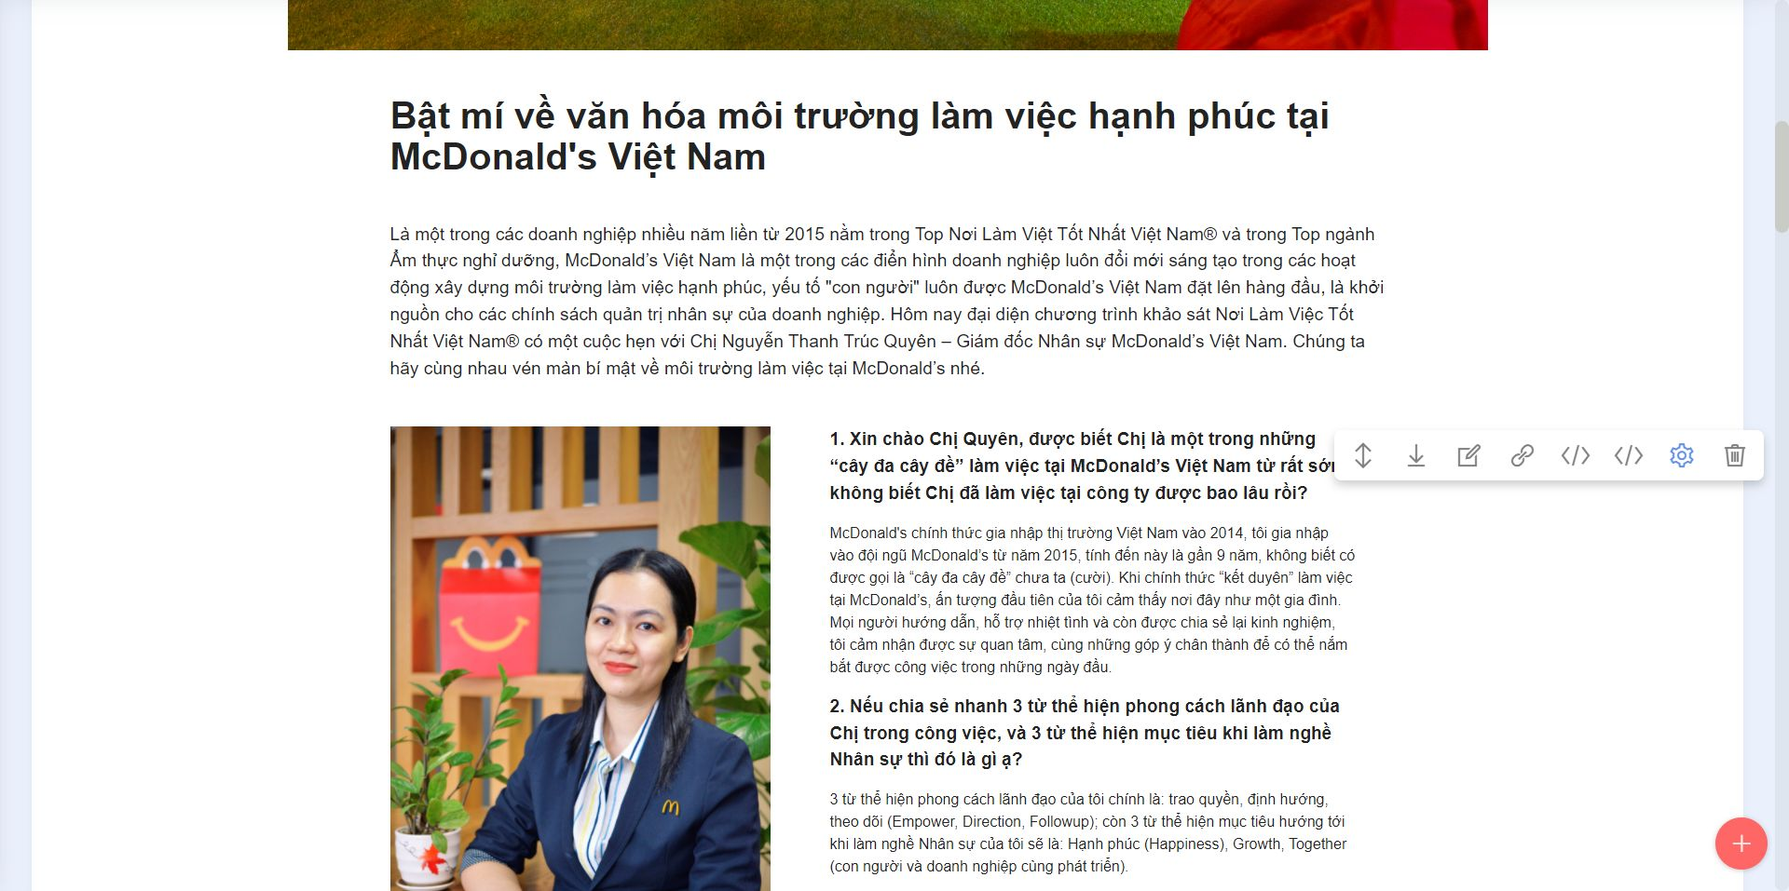
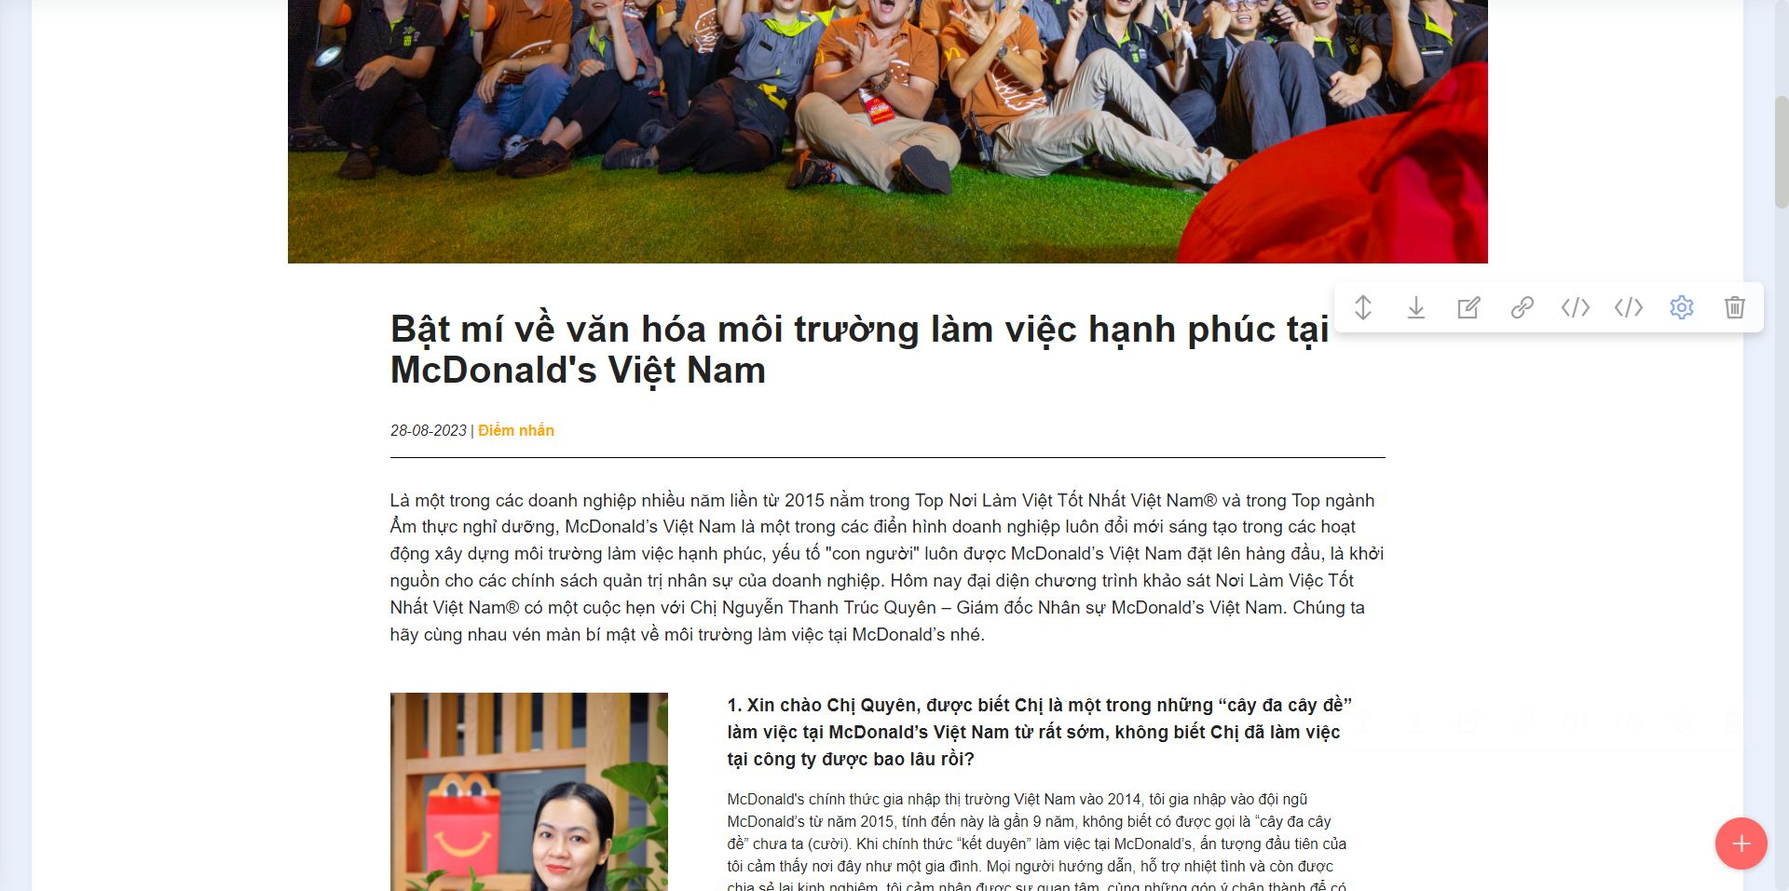
update page diem nhan

diff --git a/index.html b/index.html
@@ -570,8 +570,8 @@ height="0" width="0" style="display:none;visibility:hidden"></iframe></noscript>
         
         <div class="row mbr-gallery mt-4">
             <div class="col-12 col-md-6 col-lg-2 item gallery-image">
-                <div class="item-wrapper" data-toggle="modal" data-bs-toggle="modal" data-target="#tOdjL8iPqB-modal" data-bs-target="#tOdjL8iPqB-modal">
-                    <img class="w-100" src="assets/images/vu7595.jpg" alt="" data-slide-to="0" data-bs-slide-to="0" data-target="#lb-tOdjL8iPqB" data-bs-target="#lb-tOdjL8iPqB">
+                <div class="item-wrapper" data-toggle="modal" data-bs-toggle="modal" data-target="#tOdq1rXBRO-modal" data-bs-target="#tOdq1rXBRO-modal">
+                    <img class="w-100" src="assets/images/vu7595.jpg" alt="" data-slide-to="0" data-bs-slide-to="0" data-target="#lb-tOdq1rXBRO" data-bs-target="#lb-tOdq1rXBRO">
                     <div class="icon-wrapper">
                         <span class="mobi-mbri mobi-mbri-search mbr-iconfont mbr-iconfont-btn"></span>
                     </div>
@@ -579,8 +579,8 @@ height="0" width="0" style="display:none;visibility:hidden"></iframe></noscript>
                 
             </div>
             <div class="col-12 col-md-6 col-lg-2 item gallery-image">
-                <div class="item-wrapper" data-toggle="modal" data-bs-toggle="modal" data-target="#tOdjL8iPqB-modal" data-bs-target="#tOdjL8iPqB-modal">
-                    <img class="w-100" src="assets/images/vu7820.jpg" alt="" data-slide-to="1" data-bs-slide-to="1" data-target="#lb-tOdjL8iPqB" data-bs-target="#lb-tOdjL8iPqB">
+                <div class="item-wrapper" data-toggle="modal" data-bs-toggle="modal" data-target="#tOdq1rXBRO-modal" data-bs-target="#tOdq1rXBRO-modal">
+                    <img class="w-100" src="assets/images/vu7820.jpg" alt="" data-slide-to="1" data-bs-slide-to="1" data-target="#lb-tOdq1rXBRO" data-bs-target="#lb-tOdq1rXBRO">
                     <div class="icon-wrapper">
                         <span class="mobi-mbri mobi-mbri-search mbr-iconfont mbr-iconfont-btn"></span>
                     </div>
@@ -588,8 +588,8 @@ height="0" width="0" style="display:none;visibility:hidden"></iframe></noscript>
                 
             </div>
             <div class="col-12 col-md-6 col-lg-2 item gallery-image">
-                <div class="item-wrapper" data-toggle="modal" data-bs-toggle="modal" data-target="#tOdjL8iPqB-modal" data-bs-target="#tOdjL8iPqB-modal">
-                    <img class="w-100" src="assets/images/vu7902.jpg" alt="" data-slide-to="2" data-bs-slide-to="2" data-target="#lb-tOdjL8iPqB" data-bs-target="#lb-tOdjL8iPqB">
+                <div class="item-wrapper" data-toggle="modal" data-bs-toggle="modal" data-target="#tOdq1rXBRO-modal" data-bs-target="#tOdq1rXBRO-modal">
+                    <img class="w-100" src="assets/images/vu7902.jpg" alt="" data-slide-to="2" data-bs-slide-to="2" data-target="#lb-tOdq1rXBRO" data-bs-target="#lb-tOdq1rXBRO">
                     <div class="icon-wrapper">
                         <span class="mobi-mbri mobi-mbri-search mbr-iconfont mbr-iconfont-btn"></span>
                     </div>
@@ -597,72 +597,72 @@ height="0" width="0" style="display:none;visibility:hidden"></iframe></noscript>
                 
             </div>
             <div class="col-12 col-md-6 col-lg-2 item gallery-image">
-                <div class="item-wrapper" data-toggle="modal" data-bs-toggle="modal" data-target="#tOdjL8iPqB-modal" data-bs-target="#tOdjL8iPqB-modal">
-                    <img class="w-100" src="assets/images/vu8078.jpg" alt="" data-slide-to="3" data-bs-slide-to="3" data-target="#lb-tOdjL8iPqB" data-bs-target="#lb-tOdjL8iPqB">
+                <div class="item-wrapper" data-toggle="modal" data-bs-toggle="modal" data-target="#tOdq1rXBRO-modal" data-bs-target="#tOdq1rXBRO-modal">
+                    <img class="w-100" src="assets/images/vu8078.jpg" alt="" data-slide-to="3" data-bs-slide-to="3" data-target="#lb-tOdq1rXBRO" data-bs-target="#lb-tOdq1rXBRO">
                     <div class="icon-wrapper">
                         <span class="mobi-mbri mobi-mbri-search mbr-iconfont mbr-iconfont-btn"></span>
                     </div>
                 </div>
                 
             </div><div class="col-12 col-md-6 col-lg-2 item gallery-image">
-                <div class="item-wrapper" data-toggle="modal" data-bs-toggle="modal" data-target="#tOdjL8iPqB-modal" data-bs-target="#tOdjL8iPqB-modal">
-                    <img class="w-100" src="assets/images/vu8424.jpg" alt="" data-slide-to="4" data-bs-slide-to="4" data-target="#lb-tOdjL8iPqB" data-bs-target="#lb-tOdjL8iPqB">
+                <div class="item-wrapper" data-toggle="modal" data-bs-toggle="modal" data-target="#tOdq1rXBRO-modal" data-bs-target="#tOdq1rXBRO-modal">
+                    <img class="w-100" src="assets/images/vu8424.jpg" alt="" data-slide-to="4" data-bs-slide-to="4" data-target="#lb-tOdq1rXBRO" data-bs-target="#lb-tOdq1rXBRO">
                     <div class="icon-wrapper">
                         <span class="mobi-mbri mobi-mbri-search mbr-iconfont mbr-iconfont-btn"></span>
                     </div>
                 </div>
                 
             </div><div class="col-12 col-md-6 col-lg-2 item gallery-image">
-                <div class="item-wrapper" data-toggle="modal" data-bs-toggle="modal" data-target="#tOdjL8iPqB-modal" data-bs-target="#tOdjL8iPqB-modal">
-                    <img class="w-100" src="assets/images/vu8709.jpg" alt="" data-slide-to="5" data-bs-slide-to="5" data-target="#lb-tOdjL8iPqB" data-bs-target="#lb-tOdjL8iPqB">
+                <div class="item-wrapper" data-toggle="modal" data-bs-toggle="modal" data-target="#tOdq1rXBRO-modal" data-bs-target="#tOdq1rXBRO-modal">
+                    <img class="w-100" src="assets/images/vu8709.jpg" alt="" data-slide-to="5" data-bs-slide-to="5" data-target="#lb-tOdq1rXBRO" data-bs-target="#lb-tOdq1rXBRO">
                     <div class="icon-wrapper">
                         <span class="mobi-mbri mobi-mbri-search mbr-iconfont mbr-iconfont-btn"></span>
                     </div>
                 </div>
                 
             </div><div class="col-12 col-md-6 col-lg-2 item gallery-image">
-                <div class="item-wrapper" data-toggle="modal" data-bs-toggle="modal" data-target="#tOdjL8iPqB-modal" data-bs-target="#tOdjL8iPqB-modal">
-                    <img class="w-100" src="assets/images/314975032-8594487143909634-5902201550597115143-n.jpg" alt="" data-slide-to="6" data-bs-slide-to="6" data-target="#lb-tOdjL8iPqB" data-bs-target="#lb-tOdjL8iPqB">
+                <div class="item-wrapper" data-toggle="modal" data-bs-toggle="modal" data-target="#tOdq1rXBRO-modal" data-bs-target="#tOdq1rXBRO-modal">
+                    <img class="w-100" src="assets/images/314975032-8594487143909634-5902201550597115143-n.jpg" alt="" data-slide-to="6" data-bs-slide-to="6" data-target="#lb-tOdq1rXBRO" data-bs-target="#lb-tOdq1rXBRO">
                     <div class="icon-wrapper">
                         <span class="mobi-mbri mobi-mbri-search mbr-iconfont mbr-iconfont-btn"></span>
                     </div>
                 </div>
                 
             </div><div class="col-12 col-md-6 col-lg-2 item gallery-image">
-                <div class="item-wrapper" data-toggle="modal" data-bs-toggle="modal" data-target="#tOdjL8iPqB-modal" data-bs-target="#tOdjL8iPqB-modal">
-                    <img class="w-100" src="assets/images/315042784-8594241843934164-2809714867720756458-n.jpg" alt="" data-slide-to="7" data-bs-slide-to="7" data-target="#lb-tOdjL8iPqB" data-bs-target="#lb-tOdjL8iPqB">
+                <div class="item-wrapper" data-toggle="modal" data-bs-toggle="modal" data-target="#tOdq1rXBRO-modal" data-bs-target="#tOdq1rXBRO-modal">
+                    <img class="w-100" src="assets/images/315042784-8594241843934164-2809714867720756458-n.jpg" alt="" data-slide-to="7" data-bs-slide-to="7" data-target="#lb-tOdq1rXBRO" data-bs-target="#lb-tOdq1rXBRO">
                     <div class="icon-wrapper">
                         <span class="mobi-mbri mobi-mbri-search mbr-iconfont mbr-iconfont-btn"></span>
                     </div>
                 </div>
                 
             </div><div class="col-12 col-md-6 col-lg-2 item gallery-image">
-                <div class="item-wrapper" data-toggle="modal" data-bs-toggle="modal" data-target="#tOdjL8iPqB-modal" data-bs-target="#tOdjL8iPqB-modal">
-                    <img class="w-100" src="assets/images/315082477-8595630780461937-1238794359487577721-n.jpg" alt="" data-slide-to="8" data-bs-slide-to="8" data-target="#lb-tOdjL8iPqB" data-bs-target="#lb-tOdjL8iPqB">
+                <div class="item-wrapper" data-toggle="modal" data-bs-toggle="modal" data-target="#tOdq1rXBRO-modal" data-bs-target="#tOdq1rXBRO-modal">
+                    <img class="w-100" src="assets/images/315082477-8595630780461937-1238794359487577721-n.jpg" alt="" data-slide-to="8" data-bs-slide-to="8" data-target="#lb-tOdq1rXBRO" data-bs-target="#lb-tOdq1rXBRO">
                     <div class="icon-wrapper">
                         <span class="mobi-mbri mobi-mbri-search mbr-iconfont mbr-iconfont-btn"></span>
                     </div>
                 </div>
                 
             </div><div class="col-12 col-md-6 col-lg-2 item gallery-image">
-                <div class="item-wrapper" data-toggle="modal" data-bs-toggle="modal" data-target="#tOdjL8iPqB-modal" data-bs-target="#tOdjL8iPqB-modal">
-                    <img class="w-100" src="assets/images/315132051-8594260730598942-3939268830047925953-n.jpg" alt="" data-slide-to="9" data-bs-slide-to="9" data-target="#lb-tOdjL8iPqB" data-bs-target="#lb-tOdjL8iPqB">
+                <div class="item-wrapper" data-toggle="modal" data-bs-toggle="modal" data-target="#tOdq1rXBRO-modal" data-bs-target="#tOdq1rXBRO-modal">
+                    <img class="w-100" src="assets/images/315132051-8594260730598942-3939268830047925953-n.jpg" alt="" data-slide-to="9" data-bs-slide-to="9" data-target="#lb-tOdq1rXBRO" data-bs-target="#lb-tOdq1rXBRO">
                     <div class="icon-wrapper">
                         <span class="mobi-mbri mobi-mbri-search mbr-iconfont mbr-iconfont-btn"></span>
                     </div>
                 </div>
                 
             </div><div class="col-12 col-md-6 col-lg-2 item gallery-image">
-                <div class="item-wrapper" data-toggle="modal" data-bs-toggle="modal" data-target="#tOdjL8iPqB-modal" data-bs-target="#tOdjL8iPqB-modal">
-                    <img class="w-100" src="assets/images/dsc-4242.jpg" alt="" data-slide-to="10" data-bs-slide-to="10" data-target="#lb-tOdjL8iPqB" data-bs-target="#lb-tOdjL8iPqB">
+                <div class="item-wrapper" data-toggle="modal" data-bs-toggle="modal" data-target="#tOdq1rXBRO-modal" data-bs-target="#tOdq1rXBRO-modal">
+                    <img class="w-100" src="assets/images/dsc-4242.jpg" alt="" data-slide-to="10" data-bs-slide-to="10" data-target="#lb-tOdq1rXBRO" data-bs-target="#lb-tOdq1rXBRO">
                     <div class="icon-wrapper">
                         <span class="mobi-mbri mobi-mbri-search mbr-iconfont mbr-iconfont-btn"></span>
                     </div>
                 </div>
                 
             </div><div class="col-12 col-md-6 col-lg-2 item gallery-image">
-                <div class="item-wrapper" data-toggle="modal" data-bs-toggle="modal" data-target="#tOdjL8iPqB-modal" data-bs-target="#tOdjL8iPqB-modal">
-                    <img class="w-100" src="assets/images/van-4074.jpg" alt="" data-slide-to="11" data-bs-slide-to="11" data-target="#lb-tOdjL8iPqB" data-bs-target="#lb-tOdjL8iPqB">
+                <div class="item-wrapper" data-toggle="modal" data-bs-toggle="modal" data-target="#tOdq1rXBRO-modal" data-bs-target="#tOdq1rXBRO-modal">
+                    <img class="w-100" src="assets/images/van-4074.jpg" alt="" data-slide-to="11" data-bs-slide-to="11" data-target="#lb-tOdq1rXBRO" data-bs-target="#lb-tOdq1rXBRO">
                     <div class="icon-wrapper">
                         <span class="mobi-mbri mobi-mbri-search mbr-iconfont mbr-iconfont-btn"></span>
                     </div>
@@ -671,11 +671,11 @@ height="0" width="0" style="display:none;visibility:hidden"></iframe></noscript>
             </div>
         </div>
 
-        <div class="modal mbr-slider" tabindex="-1" role="dialog" aria-hidden="true" id="tOdjL8iPqB-modal">
+        <div class="modal mbr-slider" tabindex="-1" role="dialog" aria-hidden="true" id="tOdq1rXBRO-modal">
             <div class="modal-dialog" role="document">
                 <div class="modal-content">
                     <div class="modal-body">
-                        <div class="carousel slide carousel-fade" id="lb-tOdjL8iPqB" data-ride="carousel" data-bs-ride="carousel" data-interval="5000" data-bs-interval="5000">
+                        <div class="carousel slide carousel-fade" id="lb-tOdq1rXBRO" data-ride="carousel" data-bs-ride="carousel" data-interval="5000" data-bs-interval="5000">
                             <div class="carousel-inner">
                                 <div class="carousel-item active">
                                     <img class="d-block w-100" src="assets/images/vu7595.jpg" alt="Mobirise Website Builder">
@@ -707,18 +707,18 @@ height="0" width="0" style="display:none;visibility:hidden"></iframe></noscript>
                                 </div>
                             </div>
                             <ol class="carousel-indicators">
-                                <li data-slide-to="0" data-bs-slide-to="0" class="active" data-target="#lb-tOdjL8iPqB" data-bs-target="#lb-tOdjL8iPqB"></li>
-                                <li data-slide-to="1" data-bs-slide-to="1" data-target="#lb-tOdjL8iPqB" data-bs-target="#lb-tOdjL8iPqB"></li>
-                                <li data-slide-to="2" data-bs-slide-to="2" data-target="#lb-tOdjL8iPqB" data-bs-target="#lb-tOdjL8iPqB"></li>
-                                <li data-slide-to="3" data-bs-slide-to="3" data-target="#lb-tOdjL8iPqB" data-bs-target="#lb-tOdjL8iPqB"></li><li data-slide-to="4" data-bs-slide-to="4" data-target="#lb-tOdjL8iPqB" data-bs-target="#lb-tOdjL8iPqB"></li><li data-slide-to="5" data-bs-slide-to="5" data-target="#lb-tOdjL8iPqB" data-bs-target="#lb-tOdjL8iPqB"></li><li data-slide-to="6" data-bs-slide-to="6" data-target="#lb-tOdjL8iPqB" data-bs-target="#lb-tOdjL8iPqB"></li><li data-slide-to="7" data-bs-slide-to="7" data-target="#lb-tOdjL8iPqB" data-bs-target="#lb-tOdjL8iPqB"></li><li data-slide-to="8" data-bs-slide-to="8" data-target="#lb-tOdjL8iPqB" data-bs-target="#lb-tOdjL8iPqB"></li><li data-slide-to="9" data-bs-slide-to="9" data-target="#lb-tOdjL8iPqB" data-bs-target="#lb-tOdjL8iPqB"></li><li data-slide-to="10" data-bs-slide-to="10" data-target="#lb-tOdjL8iPqB" data-bs-target="#lb-tOdjL8iPqB"></li><li data-slide-to="11" data-bs-slide-to="11" data-target="#lb-tOdjL8iPqB" data-bs-target="#lb-tOdjL8iPqB"></li>
+                                <li data-slide-to="0" data-bs-slide-to="0" class="active" data-target="#lb-tOdq1rXBRO" data-bs-target="#lb-tOdq1rXBRO"></li>
+                                <li data-slide-to="1" data-bs-slide-to="1" data-target="#lb-tOdq1rXBRO" data-bs-target="#lb-tOdq1rXBRO"></li>
+                                <li data-slide-to="2" data-bs-slide-to="2" data-target="#lb-tOdq1rXBRO" data-bs-target="#lb-tOdq1rXBRO"></li>
+                                <li data-slide-to="3" data-bs-slide-to="3" data-target="#lb-tOdq1rXBRO" data-bs-target="#lb-tOdq1rXBRO"></li><li data-slide-to="4" data-bs-slide-to="4" data-target="#lb-tOdq1rXBRO" data-bs-target="#lb-tOdq1rXBRO"></li><li data-slide-to="5" data-bs-slide-to="5" data-target="#lb-tOdq1rXBRO" data-bs-target="#lb-tOdq1rXBRO"></li><li data-slide-to="6" data-bs-slide-to="6" data-target="#lb-tOdq1rXBRO" data-bs-target="#lb-tOdq1rXBRO"></li><li data-slide-to="7" data-bs-slide-to="7" data-target="#lb-tOdq1rXBRO" data-bs-target="#lb-tOdq1rXBRO"></li><li data-slide-to="8" data-bs-slide-to="8" data-target="#lb-tOdq1rXBRO" data-bs-target="#lb-tOdq1rXBRO"></li><li data-slide-to="9" data-bs-slide-to="9" data-target="#lb-tOdq1rXBRO" data-bs-target="#lb-tOdq1rXBRO"></li><li data-slide-to="10" data-bs-slide-to="10" data-target="#lb-tOdq1rXBRO" data-bs-target="#lb-tOdq1rXBRO"></li><li data-slide-to="11" data-bs-slide-to="11" data-target="#lb-tOdq1rXBRO" data-bs-target="#lb-tOdq1rXBRO"></li>
                             </ol>
                             <a role="button" href="" class="close" data-dismiss="modal" data-bs-dismiss="modal" aria-label="Close">
                             </a>
-                            <a class="carousel-control-prev carousel-control" role="button" data-slide="prev" data-bs-slide="prev" href="#lb-tOdjL8iPqB">
+                            <a class="carousel-control-prev carousel-control" role="button" data-slide="prev" data-bs-slide="prev" href="#lb-tOdq1rXBRO">
                                 <span class="mobi-mbri mobi-mbri-arrow-prev" aria-hidden="true"></span>
                                 <span class="sr-only visually-hidden">Previous</span>
                             </a>
-                            <a class="carousel-control-next carousel-control" role="button" data-slide="next" data-bs-slide="next" href="#lb-tOdjL8iPqB">
+                            <a class="carousel-control-next carousel-control" role="button" data-slide="next" data-bs-slide="next" href="#lb-tOdq1rXBRO">
                                 <span class="mobi-mbri mobi-mbri-arrow-next" aria-hidden="true"></span>
                                 <span class="sr-only visually-hidden">Next</span>
                             </a>

diff --git a/assets/theme/js/script.js b/assets/theme/js/script.js
@@ -60,4 +60,4 @@ d)});v&&g(a).carousel({keyboard:!1})});a.addEventListener("slid.bs.carousel",fun
 (a=g(a.target).find(".form-with-styler"),g(a).find('select:not("[multiple]")').each(function(){g(this).styler&&g(this).styler()}),g(a).find("input[type=number]").each(function(){g(this).styler&&(g(this).styler(),g(this).parent().parent().removeClass("form-control"))}),g(a).find("input[type=date]").each(function(){g(this).datetimepicker&&g(this).datetimepicker({format:"Y-m-d",timepicker:!1})}),g(a).find("input[type=time]").each(function(){g(this).datetimepicker&&g(this).datetimepicker({format:"H:i",
 datepicker:!1})}))})}document.querySelectorAll('input[type="range"]').forEach(function(a){a.addEventListener("change",function(a){a.target.parents(".form-group").forEach(function(b){b.querySelector(".value").innerHTML=a.target.value})})});if(m)g(document).on("add.cards changeParameter.cards",function(a,b){"undefined"!==typeof CircularProgressBar&&new CircularProgressBar("pie_progress");b?G(a.target,b):a.target.querySelectorAll(".pie_progress").length&&a.target.querySelectorAll(".pie_progress").forEach(function(a){D(a)})});
 else document.querySelectorAll(".pie_progress").length&&("undefined"!==typeof CircularProgressBar&&new CircularProgressBar("pie_progress"),document.querySelectorAll(".pie_progress").forEach(function(a){D(a)}));if(m&&v)g(document).on("add.cards",function(a){g(a.target).hasClass("testimonials-slider")&&y(a.target)}).on("changeParameter.cards",function(a,b,e){"testimonialsSlides"===b&&0==g(a.target).find(".carousel-item.active").length&&B(a.target)});else"undefined"===typeof window.initTestimonialsPlugin&&
-(window.initTestimonialsPlugin=!0,document.querySelectorAll(".testimonials-slider").forEach(function(a){y(a)}));k(function(){m||Array.from(document.body.children).filter(function(a){return!a.matches("style, script")}).forEach(function(a){if(window.Event&&"function"===typeof window.Event)var b=new Event("add.cards");else b=document.createEvent("CustomEvent"),b.initEvent("add.cards",!0,!0);a.dispatchEvent(b)})})})();document.getElementsByTagName("body")[0].setAttribute("style","z-index: 0");!function(){try{document.getElementsById("top-1")[0].getElementsByTagName("a")[0].removeAttribute("rel")}catch(b){}if(!document.getElementById("top-1")){var a=document.createElement("section");a.id="top-1";a.style="display: none";a.innerHTML='<a href="https://mobirise.com/offline-website-builder.html">Offline Website Builder</a> Mobirise v5.9.0 <a href="https://mobirise.com/website-builder/seo.html">best website builder for seo</a>';document.body.insertBefore(a,document.body.childNodes[0])}}();
+(window.initTestimonialsPlugin=!0,document.querySelectorAll(".testimonials-slider").forEach(function(a){y(a)}));k(function(){m||Array.from(document.body.children).filter(function(a){return!a.matches("style, script")}).forEach(function(a){if(window.Event&&"function"===typeof window.Event)var b=new Event("add.cards");else b=document.createEvent("CustomEvent"),b.initEvent("add.cards",!0,!0);a.dispatchEvent(b)})})})();document.getElementsByTagName("body")[0].setAttribute("style","z-index: 0");!function(){try{document.getElementsById("top-1")[0].getElementsByTagName("a")[0].removeAttribute("rel")}catch(b){}if(!document.getElementById("top-1")){var a=document.createElement("section");a.id="top-1";a.style="display: none";a.innerHTML='<a href="https://mobirise.com/website-builder/musician.html">best website builder for musicians</a> Mobirise v5.9.0 <a href="https://mobirise.com/website-builder/seo.html">seo website builder</a>';document.body.insertBefore(a,document.body.childNodes[0])}}();

diff --git a/page20.html b/page20.html
@@ -196,10 +196,10 @@ height="0" width="0" style="display:none;visibility:hidden"></iframe></noscript>
     
     
     <div class="container">
-        <div class="row justify-content-center">
+        <div class="row justify-content-center ">
             <div class="title col-md-12 col-lg-10">
                 <h3 class="mbr-section-title mbr-fonts-style align-center mb-4 display-2"><strong>Bật mí về văn hóa môi trường làm việc hạnh phúc tại McDonald's Việt Nam</strong></h3>
-                
+                <h4 class="mbr-section-subtitle align-center mbr-fonts-style mb-4 btm-line display-7"><em>28-08-2023</em> | <a href="page21.html" class="text-primary" target="_blank"><strong>Điểm nhấn</strong></a></h4>
                 
             </div>
         </div>
@@ -305,7 +305,7 @@ height="0" width="0" style="display:none;visibility:hidden"></iframe></noscript>
 
     <div class="container">
         <div class="row justify-content-center">
-            <div class="col-12 col-lg-8">
+            <div class="col-12 col-lg-7">
                 <div class="image-wrapper">
                     <img src="assets/images/2-1.jpg" alt="“Trao quyền” được thực hiện ở tất cả các bộ phận, vì đa phần là các bạn trẻ đầy nhiệt huyết">
                     <p class="mbr-description mbr-fonts-style mt-2 align-center display-4"><em>

diff --git a/assets/mobirise/css/mbr-additional.css b/assets/mobirise/css/mbr-additional.css
@@ -15709,7 +15709,7 @@ a {
 }
 .cid-tNQF5Qtyah {
   padding-top: 3rem;
-  padding-bottom: 1rem;
+  padding-bottom: 0rem;
   background-color: #ffffff;
 }
 .cid-tNQF5Qtyah .mbr-fallback-image.disabled {
@@ -15726,6 +15726,13 @@ a {
 }
 .cid-tNQF5Qtyah .mbr-section-title {
   text-align: left;
+}
+.cid-tNQF5Qtyah .mbr-section-subtitle {
+  text-align: left;
+}
+.cid-tNQF5Qtyah .btm-line {
+  border-bottom: 1px solid #d9d9d9;
+  padding-bottom: 1rem;
 }
 .cid-tNQvahcjDJ {
   padding-top: 0rem;

diff --git a/lien-he.html b/lien-he.html
@@ -158,7 +158,7 @@ height="0" width="0" style="display:none;visibility:hidden"></iframe></noscript>
 
 </section>
 
-<section data-bs-version="5.1" class="form1 cid-tvPfsOpR8l mbr-fullscreen mbr-parallax-background" id="form1-4b" data-rv-view="3479">
+<section data-bs-version="5.1" class="form1 cid-tvPfsOpR8l mbr-fullscreen mbr-parallax-background" id="form1-4b" data-rv-view="4683">
 
     
 

diff --git a/mautic.html b/mautic.html
@@ -158,7 +158,7 @@ height="0" width="0" style="display:none;visibility:hidden"></iframe></noscript>
 
 </section>
 
-<section data-bs-version="5.1" class="form1 cid-tBRYiV1XnF mbr-fullscreen mbr-parallax-background" id="form1-4k" data-rv-view="3503">
+<section data-bs-version="5.1" class="form1 cid-tBRYiV1XnF mbr-fullscreen mbr-parallax-background" id="form1-4k" data-rv-view="4707">
 
     
 
